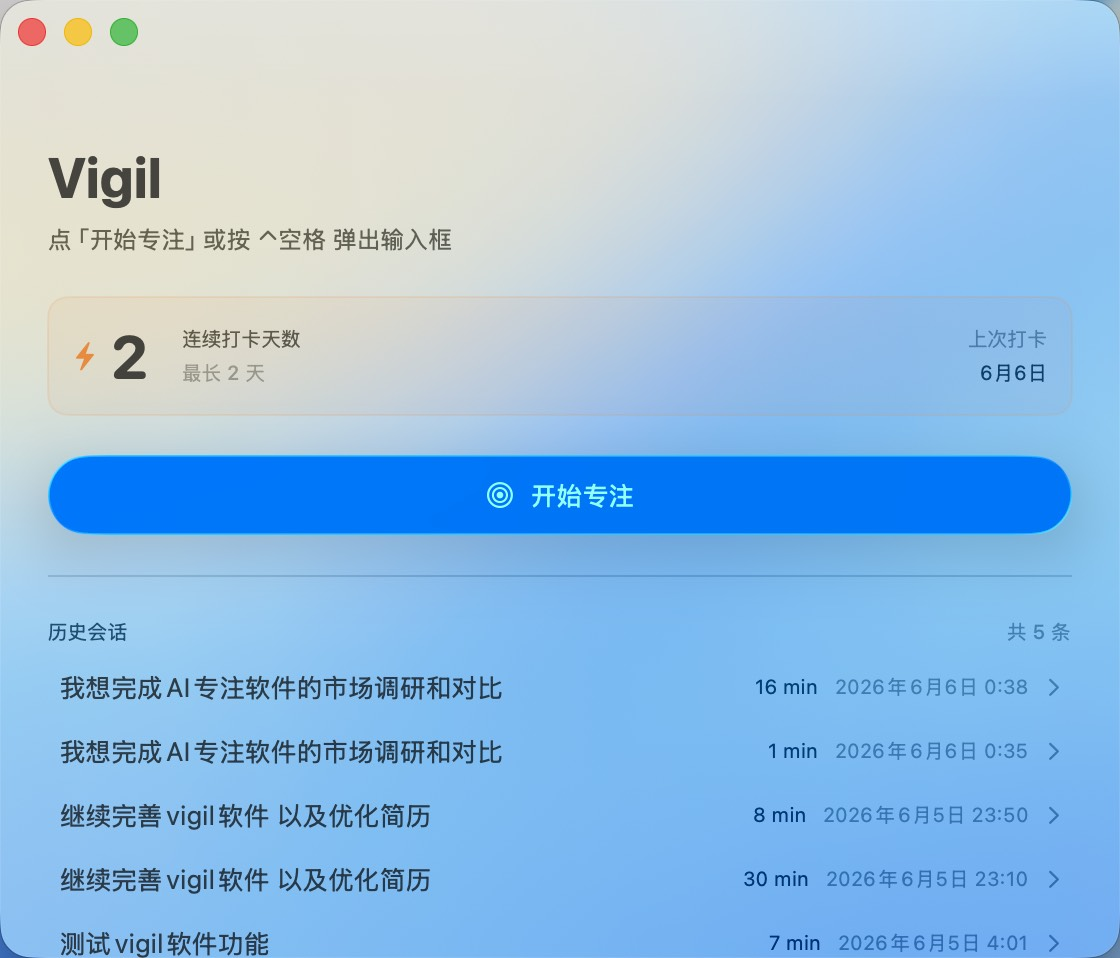
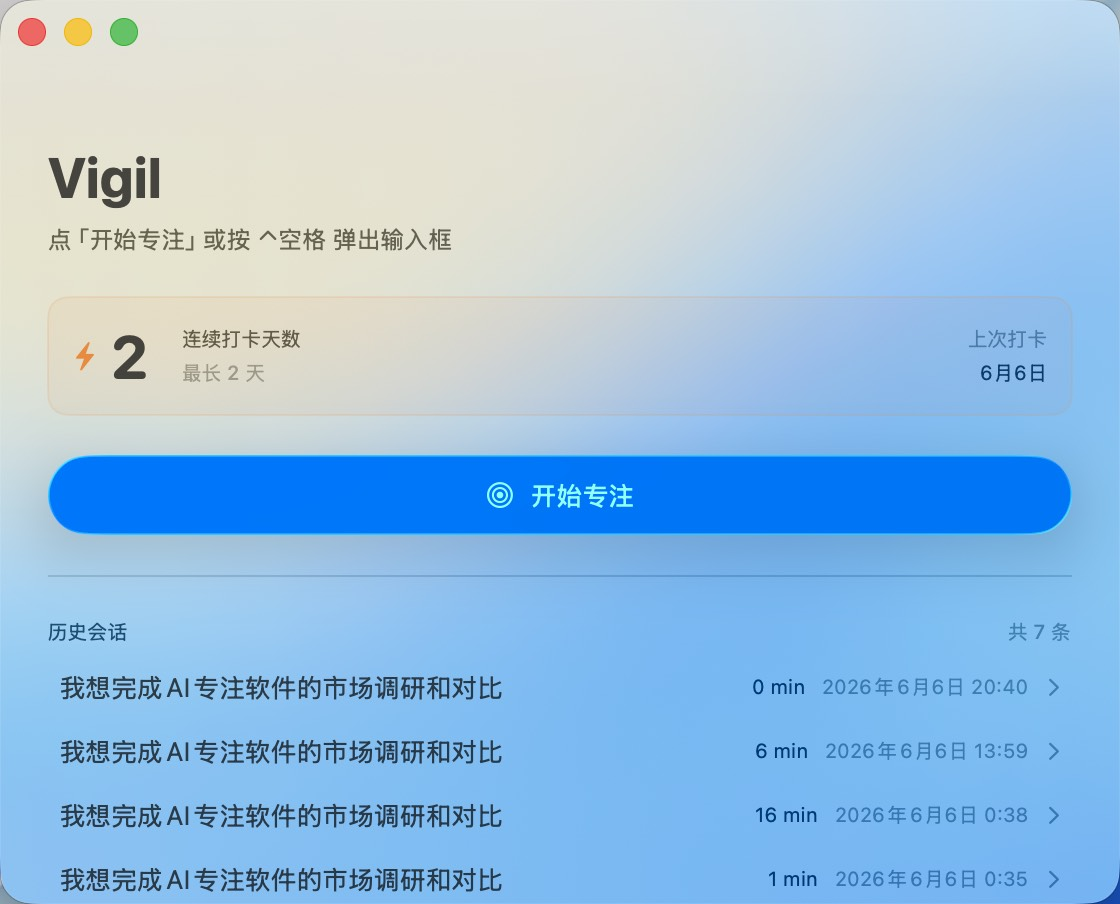
docs(readme): 翻新文案与排版
- tagline 换情感召唤"让AI帮你专注吧！" + 视频下方加一句话流程总结
- 卖点 5 条改用户视角，"提醒分轻重"嵌套 4 档（专注/走神/分心/闲置）详解
- 截图墙 caption 修正：分心场景不再误标"走神"
- 对比表精修：去掉 Vigil 暂未实现的"屏蔽干扰 App"
- 配置 AI 服务 4 个 details 折叠改单张表，FAQ 6 个 details 改 ### 标题
- 砍掉"工作原理"深度段，架构细节留给 CLAUDE.md
- 统一"灵动岛"术语
- main.jpg 换更通用的演示数据

diff --git a/README.md b/README.md
@@ -4,9 +4,9 @@
 
 # Vigil
 
-**AI 守护型专注 macOS App**
+**让AI帮你专注吧！**
 
-支持本地模型 · 兼容 OpenAI 格式API
+实时分析屏幕，走神就把你拉回
 
 [![Release](https://img.shields.io/github/v/release/ccmilu/Vigil?include_prereleases&label=release)](https://github.com/ccmilu/Vigil/releases)
 [![macOS](https://img.shields.io/badge/macOS-14%2B-black?logo=apple)](https://github.com/ccmilu/Vigil/releases)
@@ -18,30 +18,43 @@
 
 ---
 
-https://github.com/ccmilu/Vigil/releases/download/v0.1.0-media/6.6.2.mp4
+<p align="center">
+  <video src="https://github.com/ccmilu/Vigil/releases/download/v0.1.0-media/6.6.2.mp4" controls width="720"></video>
+</p>
+
+<p align="center">
+  写一句承诺 → AI 全程看着 → 走神拉你回来 → 结束 AI 复盘
+</p>
 
 ## 为什么是 Vigil
 
-- **不绑云端** —— 自带 OpenAI / Kimi / DeepSeek / Doubao / Ollama / LM Studio 等任意 OpenAI 兼容厂商，截图不外传也能跑
-- **真守护，不只是计时器** —— AI 每 5 秒看屏一次，走神时灵动岛提醒 + 全屏遮罩 + 系统通知三路并发把你拉回
-- **原生 macOS 体验** —— Liquid Glass 玻璃化主窗口、灵动岛、菜单栏常驻图标、全局快捷键
-- **AI 复盘** —— 会话结束自动复盘 4 档时间分布（专注 / 走神 / 分心 / 闲置），让你看清自己刚才到底干了什么
+- **注重隐私** —— Vigil 本身不收集任何数据。你也可以连接电脑本地运行的 AI 模型（如 LM Studio / Ollama），让屏幕画面完全不离开本机。
+- **AI 实时分析屏幕** —— 你一跑去刷手机、打开抖音小红书摸鱼，马上就有反应。
+- **提醒分轻重，不打扰心流** —— AI 把你的状态分成 4 档，每档对应不同力度的提醒：
+  - **专注**：无任何提醒，安静陪着你
+  - **走神**（持续）：灵动岛展开轻提示，无声音、无遮罩
+  - **分心**：灵动岛展开 + 系统通知 + 全屏遮罩三路同时上；持续分心则每隔一段时间再弹一次
+  - **闲置**（人不在电脑前）：灵动岛展开 + 声音反复提示，直到你回到电脑动鼠标或键盘
+  
+  所有提醒都可以在设置里调整。
+- **每次结束都有反思** —— AI 会告诉你这次专注了多久、走神去哪了，让你看清自己的注意力到底用在哪。
+- **原生 macOS 体验** —— 液态玻璃主窗口、灵动岛、菜单栏常驻图标、全局快捷键，和系统融为一体。
 
 ## 演示截图
 
 <table>
   <tr>
-    <td align="center" width="50%"><b>主窗口 · Streak + 历史</b><br/><img src="docs/screenshots/main.jpg" /></td>
+    <td align="center" width="50%"><b>主窗口 + 历史记录</b><br/><img src="docs/screenshots/main.jpg" /></td>
     <td align="center" width="50%"><b>写一句承诺，选时长</b><br/><img src="docs/screenshots/promise.jpg" /></td>
   </tr>
   <tr>
-    <td align="center" colspan="2"><b>实时监督 · 走神瞬间，刘海岛红 pulse + 系统通知第一时间提醒</b><br/><img src="docs/screenshots/guard.jpg" /></td>
+    <td align="center" colspan="2"><b>分心时，灵动岛提醒 + 系统通知第一时间提醒</b><br/><img src="docs/screenshots/guard.jpg" /></td>
   </tr>
   <tr>
-    <td align="center" colspan="2"><b>仍不回头 · 全屏遮罩 + 「我回来了」仪式感按钮把你拦下来</b><br/><img src="docs/screenshots/overlay.jpg" /></td>
+    <td align="center" colspan="2"><b>分心时，全屏遮罩 + 灵动岛提醒</b><br/><img src="docs/screenshots/overlay.jpg" /></td>
   </tr>
   <tr>
-    <td align="center" width="50%"><b>会话结束 · AI 复盘 4 档时间分布</b><br/><img src="docs/screenshots/summary.jpg" /></td>
+    <td align="center" width="50%"><b>会话结束 · AI 复盘</b><br/><img src="docs/screenshots/summary.jpg" /></td>
     <td align="center" width="50%"><b>历史详情 · 时间轴 + 每帧截图</b><br/><img src="docs/screenshots/history.jpg" /></td>
   </tr>
 </table>
@@ -50,11 +63,10 @@ https://github.com/ccmilu/Vigil/releases/download/v0.1.0-media/6.6.2.mp4
 
 | 能力 | 普通专注 App | Vigil |
 |---|:---:|:---:|
-| 倒计时 + 屏蔽干扰 App | ✅ | ✅ |
-| **AI 视觉判断你是否专注** | ❌ | ✅ |
-| **接入任意 AI Provider** | ❌ | ✅ |
+| 倒计时 + AI复盘 | ❌ | ✅ |
+| **AI 实时分析屏幕判断你是否专注** | ❌ | ✅ |
 | **本地模型 (LM Studio / Ollama)** | ❌ | ✅ |
-| 走神时全屏遮罩拉回 | 偶有 | ✅ |
+| **接入任意 AI Provider** | ❌ | ✅ |
 | 数据完全本地存储 | 因 App 而异 | ✅ |
 | 价格 | 多数订阅制 | 免费开源 |
 
@@ -69,80 +81,51 @@ https://github.com/ccmilu/Vigil/releases/download/v0.1.0-media/6.6.2.mp4
 
 ### Homebrew Cask
 
-计划中（v0.1 稳定后提交）。
+计划中
 
 ## 配置 AI 服务
 
 首次启动时，根据引导提示添加一个 Provider。常用配置：
 
-<details>
-<summary><b>LM Studio（本地，推荐隐私敏感用户）</b></summary>
+| Provider | Base URL | API Key | Model |
+|---|---|---|---|
+| **LM Studio**（本地）| `http://127.0.0.1:1234/v1` | 你的本地 key| 加载的多模态模型 |
+| **Ollama**（本地）| `http://127.0.0.1:11434/v1` | 你的本地 key | 加载的多模态模型 |
+| **OpenAI** | `https://api.openai.com/v1` | 你的 OpenAI key | `gpt-4o-mini`|
 
-- Base URL: `http://127.0.0.1:1234/v1`
-- API Key: 任意字符串（LM Studio 不校验）
-- Model: 你加载的多模态模型名，如 `qwen2-vl-7b-instruct`
+其他 OpenAI 兼容厂商（Kimi / Doubao / 智谱 / 阿里千问 / OpenRouter / SiliconFlow 等）同理：填写 Base URL + API key + 视觉模型。
 
-</details>
+## Roadmap （待定）
 
-<details>
-<summary><b>Ollama（本地）</b></summary>
+**v0.2**
+- [ ] 周历热力图
+- [ ] 截图自动清理
+- [ ] Homebrew 安装支持
 
-- Base URL: `http://127.0.0.1:11434/v1`
-- API Key: `ollama`
-- Model: 你 `ollama pull` 的多模态模型，如 `llama3.2-vision`
+**v0.3+**
+- [ ] 扩展更多 API 格式（如 Anthropic / Gemini 协议）
+- [ ] App 白名单 / 黑名单
+- [ ] 环境白噪音
+- [ ] iCloud 同步
+- [ ] 周报 / 月报导出
 
-</details>
+## FAQ
 
-<details>
-<summary><b>DeepSeek</b></summary>
+### 分心时提醒太频繁了，能不能调弱一点？
 
-- Base URL: `https://api.deepseek.com/v1`
-- API Key: 你的 DeepSeek key
-- Model: `deepseek-vl2`（必须是 vision 模型）
+可以。所有提醒行为都可以在「设置 → 提醒」中调整。
 
-</details>
+### Vigil会收集我的数据吗？
 
-<details>
-<summary><b>OpenAI</b></summary>
+Vigil 本身不会收集、上传你的任何数据。所有截图都保存在电脑本地，想让画面完全不离开本机，接入本地 AI 模型（如 LM Studio / Ollama）即可。
 
-- Base URL: `https://api.openai.com/v1`
-- API Key: 你的 OpenAI key
-- Model: `gpt-4o-mini`（性价比高）或 `gpt-4o`（更准）
+### macOS 13 / Intel Mac 能用吗？
 
-</details>
+需要 macOS 14 及以上。Intel Mac 理论上可以用，但未做兼容测试。
 
-## 工作原理
+### 为什么叫 Vigil？
 
-每帧（每 5 秒）按顺序过 5 道闸门，绝大多数帧都不会调 AI：
-
-1. **idle 检测** —— 鼠标键盘 30s 无动作，跳过 AI 直接标 idle
-2. **屏幕抓取** —— ScreenCaptureKit 抓 active 窗口；桌面 only / 无窗口跳过
-3. **AI 节流** —— 上一帧 AI 还在跑就跳过，AI 完成时立即续跑最新帧（latest-only 重入）
-4. **dHash 去重** —— 16×16 dHash 距离 < 30 跳过 AI（屏幕没变）
-5. **任务超时** —— 单帧 AI 调用硬超时，超时回落上一次结果
-
-会话结束后 AI 基于本次所有 AnalysisRecord 生成自然语言复盘。
-
-> [!note]- 完整架构与设计取舍
->
-> ### 数据层
-> SwiftData 持久化 `FocusSession` / `AnalysisRecord` / `StreakInfo` / `PlayTimer`。截图 jpg 落在 `~/Library/Application Support/Vigil/Screenshots/<sessionID>/`，每个 session 一个目录，含 `diagnostic.jsonl` 决策日志。
->
-> ### Session 状态机
-> ```
-> idle → preparing → running → analyzing → completed
->                ↓
->            resting（休息倒计时，无截屏）
-> ```
->
-> ### dHash 阈值经验
-> 0-15 几乎不动；15-30 滚动 / 光标；30-60 切 tab / 段落；60+ 切 app。默认 30。
->
-> ### AI 服务层
-> `AIService` protocol 三方法（`analyzeTask` / `analyzeFrame` / `summarize`）。`OpenAICompatibleService` 是唯一实现，覆盖所有 OpenAI 兼容厂商。本地 host（localhost / 127.0.0.1 / 192.168.x / 10.x / .local）自动剥离 `detail` 字段避免 LM Studio / Ollama 报错。
->
-> ### 5 秒 tick 节奏
-> 给用户可预期的监督密度。AI 慢时由 latest-only 重入兜底，不会丢帧也不会堆积。
+Vigil 是英文里的「守夜人」—— 当所有人睡去，他独自醒着守望。让 AI 当你专注时的那个守夜人。
 
 ## 项目结构
 
@@ -152,7 +135,7 @@ Vigil/
 ├── Sources/
 │   ├── AI/             AI 服务抽象与实现
 │   ├── Capture/        截屏 + dHash + 系统检测
-│   ├── Session/        会话状态机、刘海岛、菜单栏
+│   ├── Session/        会话状态机、灵动岛、菜单栏
 │   ├── UI/             SwiftUI 视图
 │   ├── Settings/       Provider / Keychain / @AppStorage
 │   ├── Persistence/    SwiftData @Model + Migrations
@@ -160,69 +143,12 @@ Vigil/
 └── Tests/              单元测试 + 集成测试
 ```
 
-## Roadmap
-
-**v0.2**
-- [ ] Streak 周历热力图（GitHub 风格方格图）
-- [ ] 截图自动清理（30 天保留期）
-- [ ] 9 个 PlayTimer + 9 个全局快捷键
-- [ ] Homebrew Cask 公式
-
-**v0.3+**
-- [ ] Anthropic / Gemini 协议族
-- [ ] 自定义 prompt（Settings 暴露）
-- [ ] App 白名单 / 黑名单
-- [ ] 环境白噪音
-- [ ] iCloud 同步
-- [ ] 周报 / 月报导出
-
-## FAQ
-
-<details>
-<summary><b>截图会发到哪？</b></summary>
-
-取决于你配的 Provider。本地 LM Studio / Ollama 完全离线，不出本机；云端厂商发到对应 API 端点。可在「设置 → AI 服务」里看每个 Provider 的目的地。
-</details>
-
-<details>
-<summary><b>5 秒截一次屏会不会卡？</b></summary>
-
-不会。dHash 去重让 80%+ 的帧不调 AI（屏幕没变直接 skip），AI 调用走 actor 异步不阻塞主线程。M 系列 Mac 上 CPU 几乎无感。
-</details>
-
-<details>
-<summary><b>macOS 13 / Intel Mac 能用吗？</b></summary>
-
-需要 macOS 14+。用了 macOS 14 才有的 ScreenCaptureKit 增量 API 和 Liquid Glass 材质。Intel Mac 理论可跑但未做兼容测试。
-</details>
-
-<details>
-<summary><b>数据放在哪？能导出吗？</b></summary>
-
-全在 `~/Library/Application Support/Vigil/`，SwiftData 数据库 + 截图 jpg。当前版本无导出功能，v0.3 计划做 markdown 导出。
-</details>
-
-<details>
-<summary><b>为什么叫 Vigil？</b></summary>
-
-Vigil = 守夜人 / 警觉守望，守护你的专注。
-</details>
-
-<details>
-<summary><b>能不能不弹遮罩，只用通知？</b></summary>
-
-可以。「设置 → 干扰」里关掉「分心时显示遮罩」即可，保留通知和刘海岛 pulse。
-</details>
-
 ## 反馈
 
 - Bug 报告 / 功能建议：[New Issue](../../issues/new)
-- 讨论：[Discussions](../../discussions)
 - 邮件联系：[ccmilu@outlook.com](mailto:ccmilu@outlook.com)
 - 喜欢这个项目？给个 Star 是最大鼓励
 
 ## License
 
 [GPL-3.0](LICENSE) © 2026 Jason
-
-任何人可以自由使用、修改、分发本项目；但**再分发的修改版本必须以 GPL-3.0 同等条款开源**（含完整源码 + License 文件）。商用同样需开源衍生作品。
